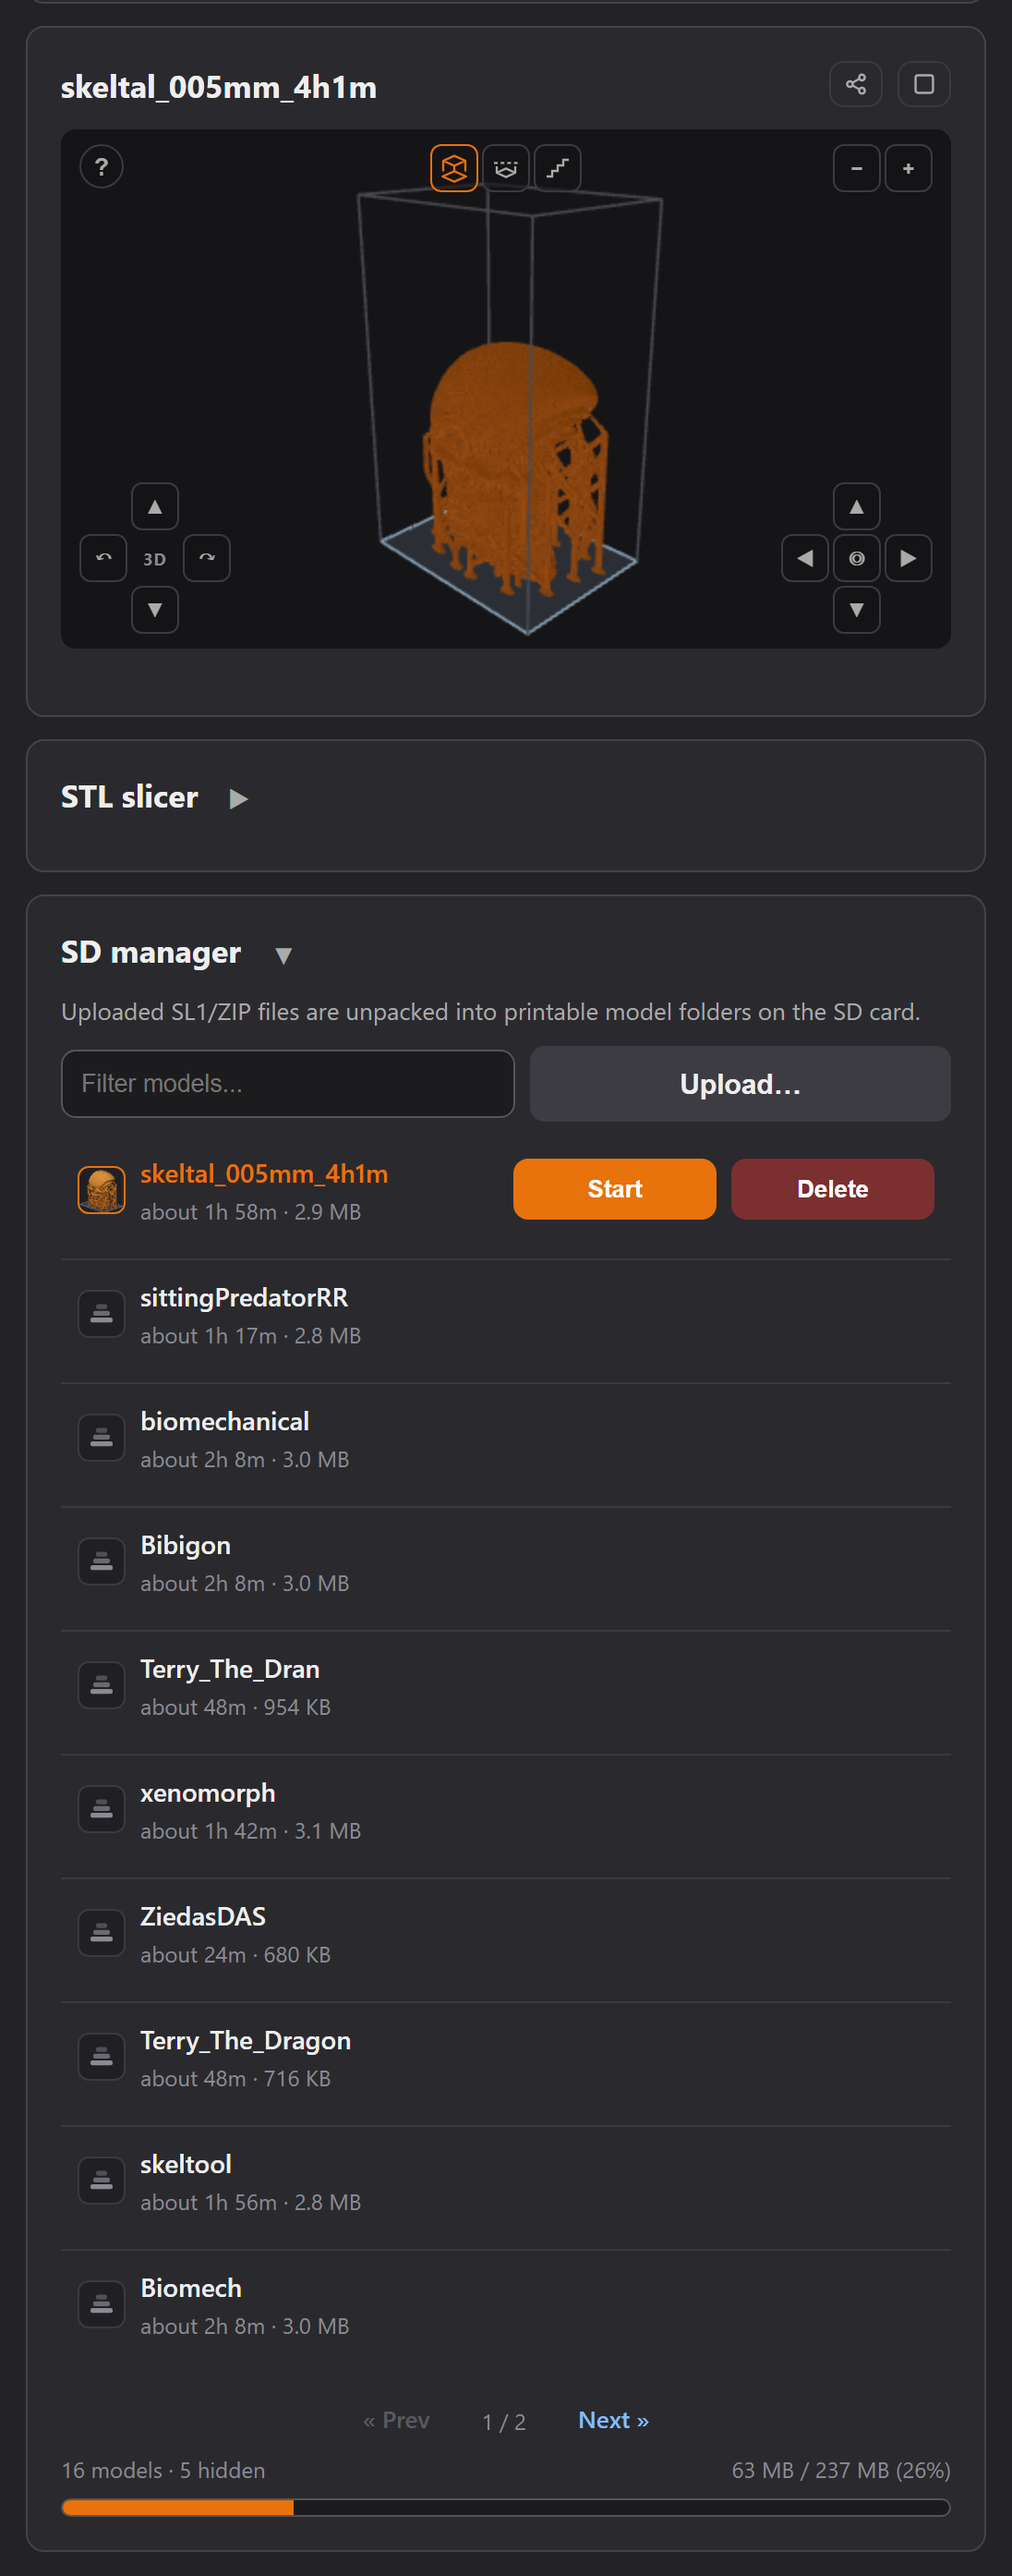
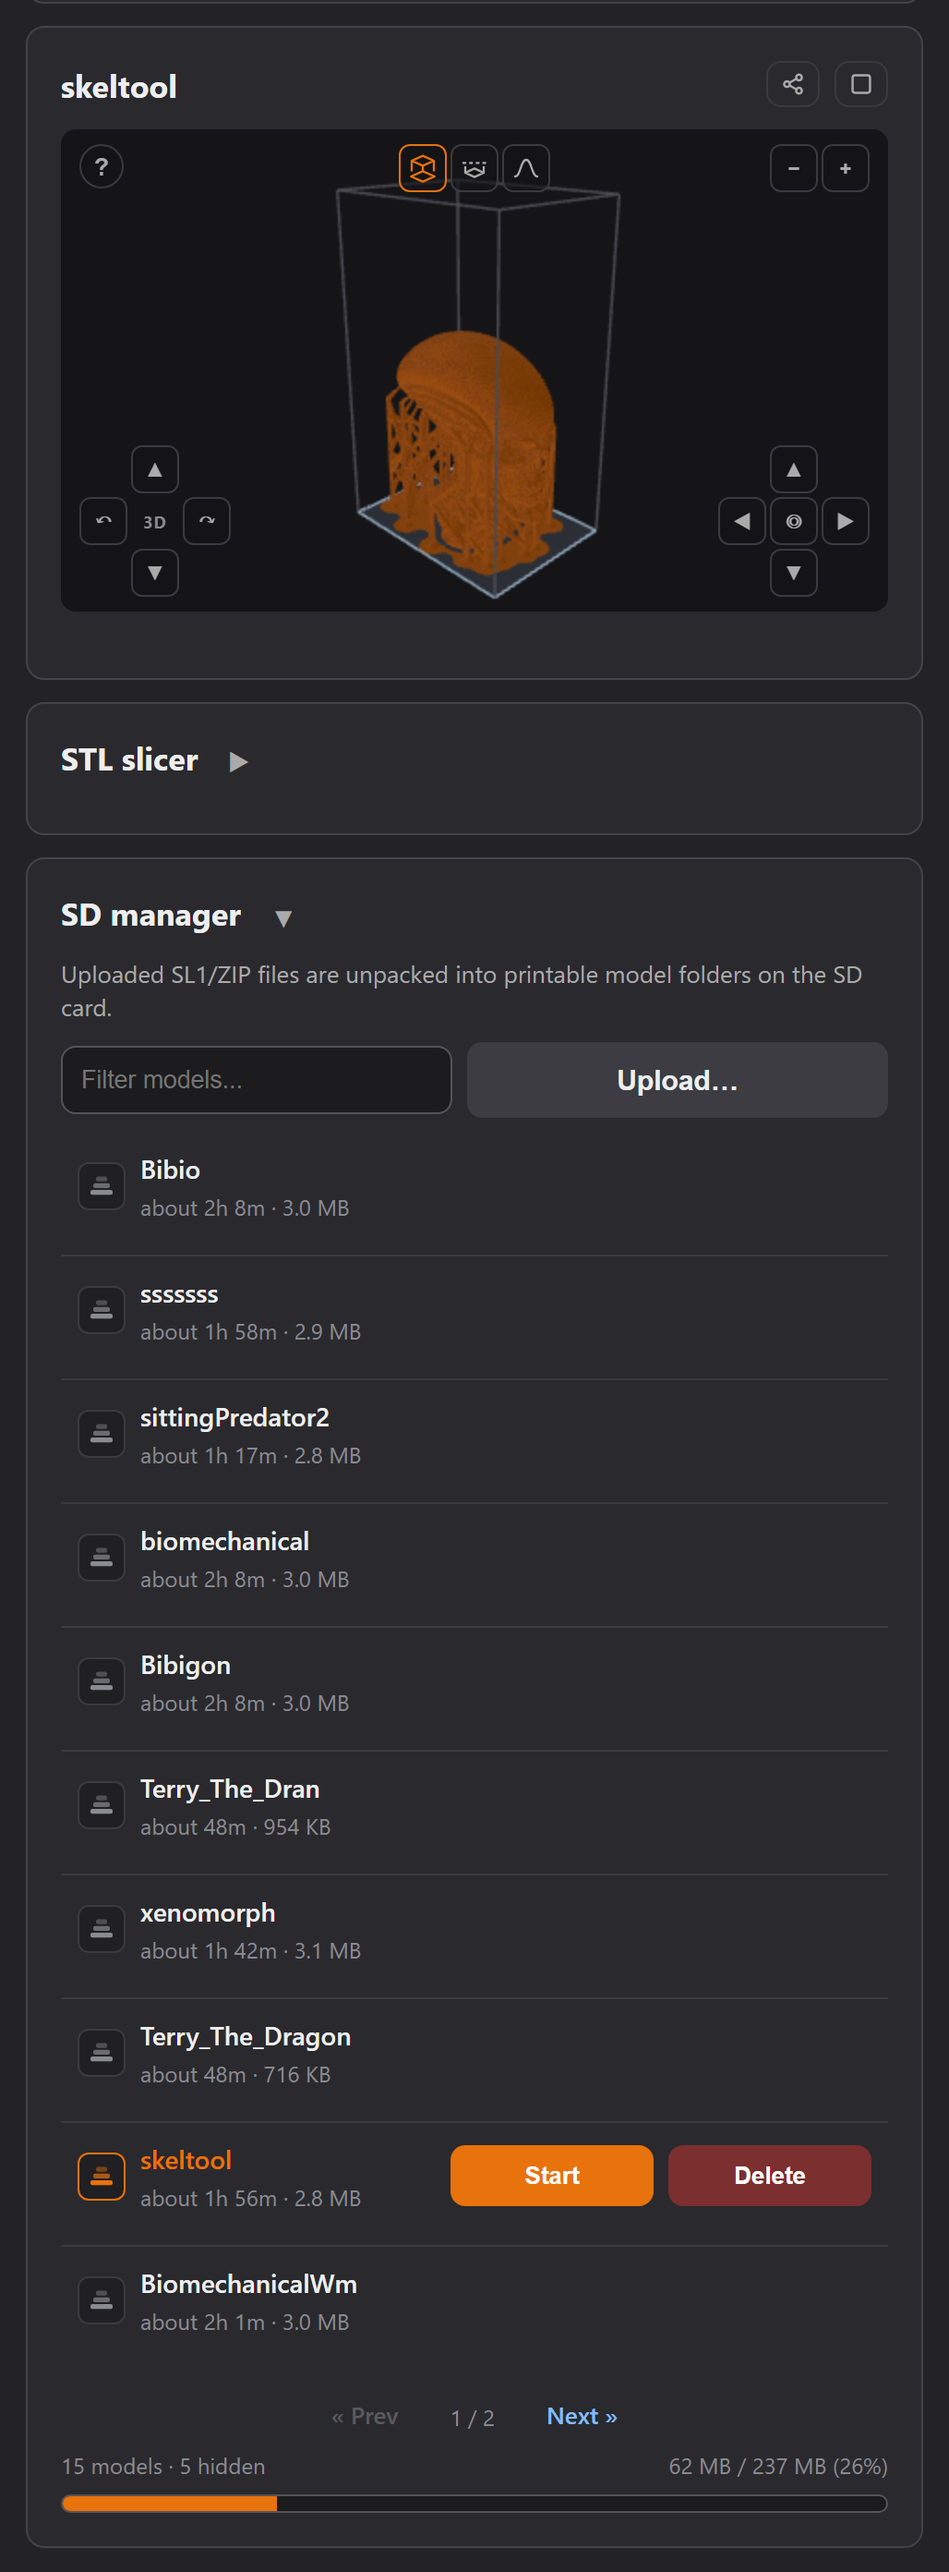
manual: the preview pictures show the raft, and a button that still exists
The two dashboard screenshots were taken with the old default, which smoothed
the model and erased its raft, and they show the view toolbar with the old
staircase icon. Both reshot at their own window widths, so they land at the
same 69% scale as the rest of the manual's pictures; the narrow one is a
slightly tighter crop, so its max-width follows it down from 378 to 355.

The model in them changed - the one they used is no longer on the card.

Two list entries were wrong as well. Smooth was missing entirely: it arrived
after that paragraph was written, and it is worth a line, because it is the
one control that changes what the picture claims is on the plate. Detailed
was described as a button, but that button was removed on 08-20 and the view
has been at full resolution ever since - a reader would have gone looking for
it.

diff --git a/docs/manual/index.html b/docs/manual/index.html
@@ -492,7 +492,7 @@ window.addEventListener('DOMContentLoaded',window.tmSyncSite);
 
   <h3>The SD manager &amp; the Model preview card</h3>
   <p>Uploads are safe: a model unpacks into a temporary folder and replaces the old one only after unpacking succeeds, and uploading a name that already exists asks <b>Replace / Rename / Cancel</b> (a PrusaSlicer re-upload simply replaces, as you’d expect while iterating).</p>
-  <img class="shot" style="max-width:378px" src="images/sd-and-preview.png" alt="The model preview card with a rendered model and its view controls, and below it the SD manager: a selected model with Start and Delete, the other models, the page arrows and the card-space bar">
+  <img class="shot" style="max-width:355px" src="images/sd-and-preview.png" alt="The model preview card with a rendered model, its raft and its view controls, and below it the SD manager: a selected model with Start and Delete, the other models, the page arrows and the card-space bar">
   <p>The card leads with the model list — the part you use every day. <b>Upload…</b> sits in its corner: one click opens the file picker and the file starts uploading the moment you choose it. Storage sits at the bottom as a thin bar, out of the way until it matters (it turns amber past 85%). Uploading a model that doesn't fit is refused before anything is sent, so the bar is information, not a thing to watch.</p>
   <p>Every model row <b>is</b> the preview button: click it and the browser rebuilds the shape from the sliced layers and renders it into the <b>Model preview</b> card, with a live percentage while it loads, then a compact info line — layers · height · print time · resin — and a <b>Share model</b> button (when TinyMaker Connect is registered). The selected row is highlighted, so a card full of models never leaves you guessing which one is on screen. <b>Start</b> and <b>Delete</b> appear on the row itself — under the mouse on a computer, on a tap on the phone — and Start goes straight to the <i>Start this print?</i> question without waiting for the preview.</p>
   <p>The card itself is always on the dashboard, like the SD manager: before anything is previewed it shows a hint, and the last previewed model is remembered — a page reload brings it straight back from the saved preview (no re-render, nothing to redo).</p>
@@ -500,7 +500,8 @@ window.addEventListener('DOMContentLoaded',window.tmSyncSite);
   <ul>
     <li><b>Rotate / zoom / pan</b> with the mouse or fingers, an <b>expand</b> button for a bigger window, and a <b>clip slider</b> that cuts the model at any height so you can look inside — the cut shows the true voxel steps of the sliced layers.</li>
     <li><b>Two view buttons:</b> the 3D one toggles supports on/off, the 2D one switches between the flat layer view and the <b>UV view</b> — the layer exactly as the masking LCD will shine it.</li>
-    <li><b>Detailed</b> re-renders at the full print resolution. The first run decodes every layer (roughly a minute per model); the result is cached next to the model on the SD card, so from then on it is instant. <b>Prepare 3D for all models</b> (Settings → Display) runs that once for everything already on the card.</li>
+    <li><b>Smooth</b> rounds off the voxel steps for a prettier picture. It is <b>off by default</b>, because the same smoothing thins out anything flat and thin — the raft disappears altogether — and the preview's job is to show what will really be on the plate.</li>
+    <li><b>Full print resolution, always</b> — there is no quality switch to find. The first time a model is opened the browser decodes every layer (roughly a minute per model); the result is cached next to the model on the SD card, so from then on it is instant. <b>Prepare 3D for all models</b> (Settings → Display) runs that once for everything already on the card.</li>
   </ul>
   <p><b>Resin on the info line:</b> when the exact amount is known it is shown outright; otherwise a quick <code>~X&nbsp;ml (quick)</code> estimate appears with the preview, free of charge. Clicking the <code>~</code> value runs the <b>exact scan on the printer</b> — it decodes every layer, so expect roughly a minute per 100 layers.</p>
   <p>Start a print (from the row’s <b>Start</b> or on the printer) and the same card takes over automatically as a <b>live progress render</b>: the printed part fills in with color, the rest stays a ghost outline. It costs the printer nothing (the browser renders from a few prefetched layers).</p>
